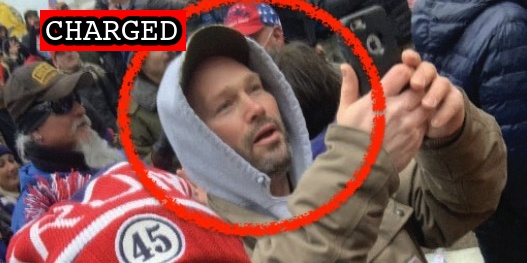
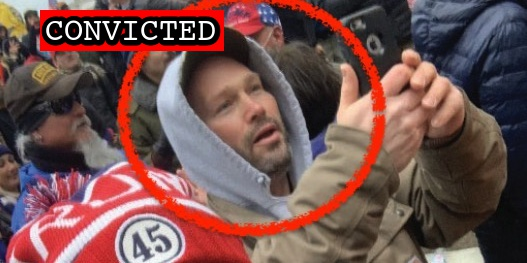
Latest schedule

Changed region(s): [[0.1214, 0.0304, 0.425, 0.2129]]

diff --git a/docs/_suspects/brian-sizer.md b/docs/_suspects/brian-sizer.md
@@ -4,21 +4,21 @@ lastName: Sizer
 hashtag:
 aka:
 residence: Pennsylvania
-status: Charged
+status: Convicted
 date: 2022-10-27
 charged: 2022-10-27
 indicted:
-convicted:
+convicted: 2023-01-05
 acquitted:
 sentenced:
 dismissed:
 deceased:
-plea_hearing:
+plea_hearing: 2023-01-05
 trial_date:
 trial_type:
 jury_selection:
-sentencing:
-status_conference: 2023-01-05
+sentencing: 2023-04-05
+status_conference:
 age: 47
 occupation:
 affiliations:
@@ -32,7 +32,7 @@ raid:
 perpwalk:
 quote:
 title: Brian Sizer charged on October 27th, 2022
-description: Click for latest case details. Suspects innocent until proven guilty.
+description: Convicted on January 5, 2023. Click for latest case details.
 author: seditiontrack
 layout: suspect
 published: true
@@ -41,6 +41,10 @@ caseName: USA v. SIZER
 judge: James E. Boasberg
 videos:
 charges:
+- code: 40 USC § 5104(e)(2)(G)
+  title: Parading, demonstrating or picketing in a Capitol building
+  url: https://www.law.cornell.edu/uscode/text/40/5104
+  felony: false
 sentence:
 ---
 - [News Report](https://triblive.com/local/regional/ellwood-city-man-whose-wife-pleaded-guilty-to-involvement-in-capitol-riot-now-faces-charges/)

diff --git a/docs/_suspects/william-pope.md b/docs/_suspects/william-pope.md
@@ -43,7 +43,6 @@ videos:
 charges:
 sentence:
 ---
-
 - [News Report](https://www.komu.com/news/midmissourinews/update-kansas-man-arrested-in-relation-to-u-s-capitol-riot-two-missouri-men-also/article_a3e6bfa4-6d66-11eb-a9e0-f36f0598f077.html)
 - [Self Incrimination (Media)](https://www.cjonline.com/story/news/local/2021/01/11/former-topeka-city-council-candidate-inside-u-s-capitol-jan-6/6627946002/)
 - [Statement of Facts](https://www.justice.gov/usao-dc/case-multi-defendant/file/1379106/download)

diff --git a/docs/_suspects/joseph-irwin.md b/docs/_suspects/joseph-irwin.md
@@ -18,7 +18,7 @@ trial_date: 2023-01-23
 trial_type: Bench Trial
 jury_selection:
 sentencing:
-status_conference:
+status_conference: 2023-01-09
 age:
 occupation: Retired US Army, Retired County Police Officer
 affiliations: Former Sheriff's Deputy; U.S. Army, Retired
@@ -38,7 +38,7 @@ layout: suspect
 published: true
 caseNumber: 21-cr-0589
 caseName: USA v. IRWIN
-judge: Thomas F. Hogan
+judge: Randolph D. Moss
 videos:
 charges:
 sentence:

diff --git a/docs/_suspects/michael-pope.md b/docs/_suspects/michael-pope.md
@@ -43,7 +43,6 @@ videos:
 charges:
 sentence:
 ---
-
 - [News Report](https://cdapress.com/news/2021/feb/13/sandpoint-man-implicated-capitol-insurrection-cda/)
 - [Statement of Facts](https://www.justice.gov/usao-dc/case-multi-defendant/file/1379106/download)
 - [Indictment](https://www.justice.gov/usao-dc/case-multi-defendant/file/1459966/download)

diff --git a/docs/_suspects/agnieszka-chwiesiuk.md b/docs/_suspects/agnieszka-chwiesiuk.md
@@ -18,7 +18,7 @@ trial_date:
 trial_type:
 jury_selection:
 sentencing:
-status_conference:
+status_conference: 2023-01-31
 age:
 occupation:
 affiliations:
@@ -38,7 +38,7 @@ layout: suspect
 published: true
 caseNumber: 22-mj-0281
 caseName: USA v. CHWIESIUK
-judge:
+judge: Robin M. Meriweather
 videos:
 charges:
 sentence:

diff --git a/docs/_suspects/michael-lockwood.md b/docs/_suspects/michael-lockwood.md
@@ -18,7 +18,7 @@ trial_date:
 trial_type:
 jury_selection:
 sentencing:
-status_conference:
+status_conference: 2023-01-19
 age: 32
 occupation:
 affiliations:
@@ -38,7 +38,7 @@ layout: suspect
 published: true
 caseNumber: 22-mj-0220
 caseName: USA v. LOCKWOOD
-judge:
+judge: Zia M. Faruqui
 videos:
 charges:
 sentence:

diff --git a/docs/_suspects/andrew-johnson.md b/docs/_suspects/andrew-johnson.md
@@ -18,7 +18,7 @@ trial_date:
 trial_type:
 jury_selection:
 sentencing:
-status_conference:
+status_conference: 2023-03-03
 age:
 occupation:
 affiliations:
@@ -38,7 +38,7 @@ layout: suspect
 published: true
 caseNumber: 22-cr-0414
 caseName: USA v. JOHNSON
-judge:
+judge: James E. Boasberg
 videos:
 charges:
 sentence:

diff --git a/docs/_suspects/donovan-crowl.md b/docs/_suspects/donovan-crowl.md
@@ -18,7 +18,7 @@ trial_date: 2023-02-01
 trial_type: Jury Trial
 jury_selection:
 sentencing:
-status_conference:
+status_conference: 2023-01-06
 age: 50
 occupation: Former U.S. Military (Marines)
 affiliations: Oath Keepers, Ohio Regular Militia

diff --git a/docs/_suspects/george-tanios.md b/docs/_suspects/george-tanios.md
@@ -17,8 +17,8 @@ plea_hearing: 2022-07-27
 trial_date:
 trial_type:
 jury_selection:
-sentencing: 2023-01-13
-status_conference: 2023-01-04
+sentencing: 2023-01-27
+status_conference:
 age: 39
 occupation: Owner, Sandwich Shop
 affiliations:

diff --git a/docs/_suspects/james-beeks.md b/docs/_suspects/james-beeks.md
@@ -18,7 +18,7 @@ trial_date: 2023-02-01
 trial_type: Jury Trial
 jury_selection:
 sentencing:
-status_conference:
+status_conference: 2023-01-06
 age: 49
 occupation: Broadway Actor, Michael Jackson Impersonator
 affiliations: Oath Keeprs

diff --git a/docs/_suspects/laura-steele.md b/docs/_suspects/laura-steele.md
@@ -18,7 +18,7 @@ trial_date: 2023-02-01
 trial_type: Jury Trial
 jury_selection:
 sentencing:
-status_conference:
+status_conference: 2023-01-06
 age: 52
 occupation: Law Enforcement (former SWAT)
 affiliations: Oath Keepers

diff --git a/docs/_suspects/julian-khater.md b/docs/_suspects/julian-khater.md
@@ -17,8 +17,8 @@ plea_hearing: 2022-09-01
 trial_date:
 trial_type:
 jury_selection:
-sentencing: 2023-01-13
-status_conference: 2023-01-04
+sentencing: 2023-01-27
+status_conference:
 age: 32
 occupation:
 affiliations:
